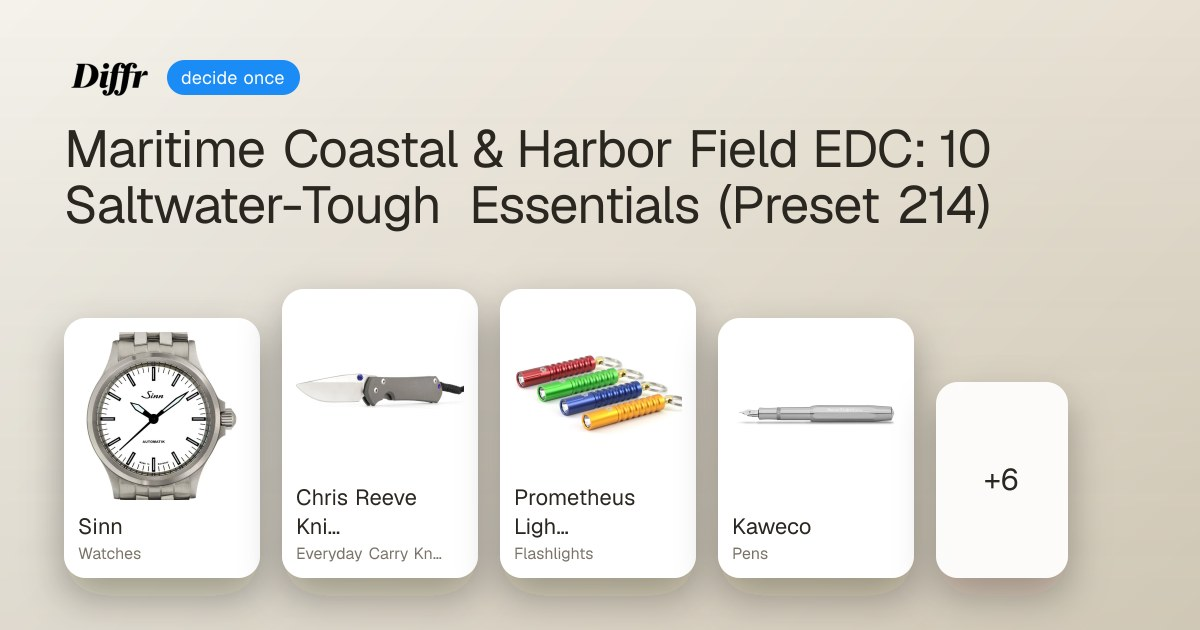
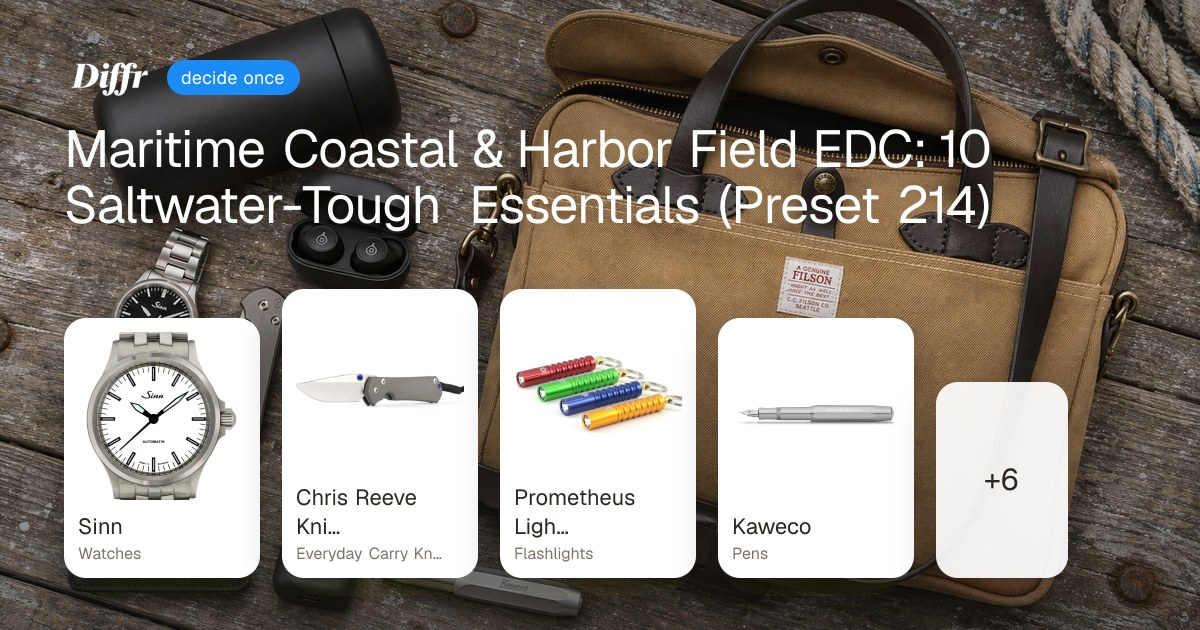
feat(diffr): add OG base covers and rebake share cards for presets 214-216

diff --git a/app/diffr/blog/og-base.ts b/app/diffr/blog/og-base.ts
@@ -127,6 +127,9 @@ export const OG_BASE_SLUGS = new Set<string>([
   'styling-ivy-prep-autumn-brand-guide',
   'classic-christmas-decor-ideas',
   'kids-art-craft-studio-brand-guide',
+  'maritime-harbor-edc-brand-guide',
+  'wimb-milan-espresso-brand-guide',
+  'styling-tokyo-sartorial-brand-guide',
   '54321-packing-method-brand-guide',
   // Aritzia / athleisure rescue pages (2026-09-15)
   'wilfred-brand-guide',
